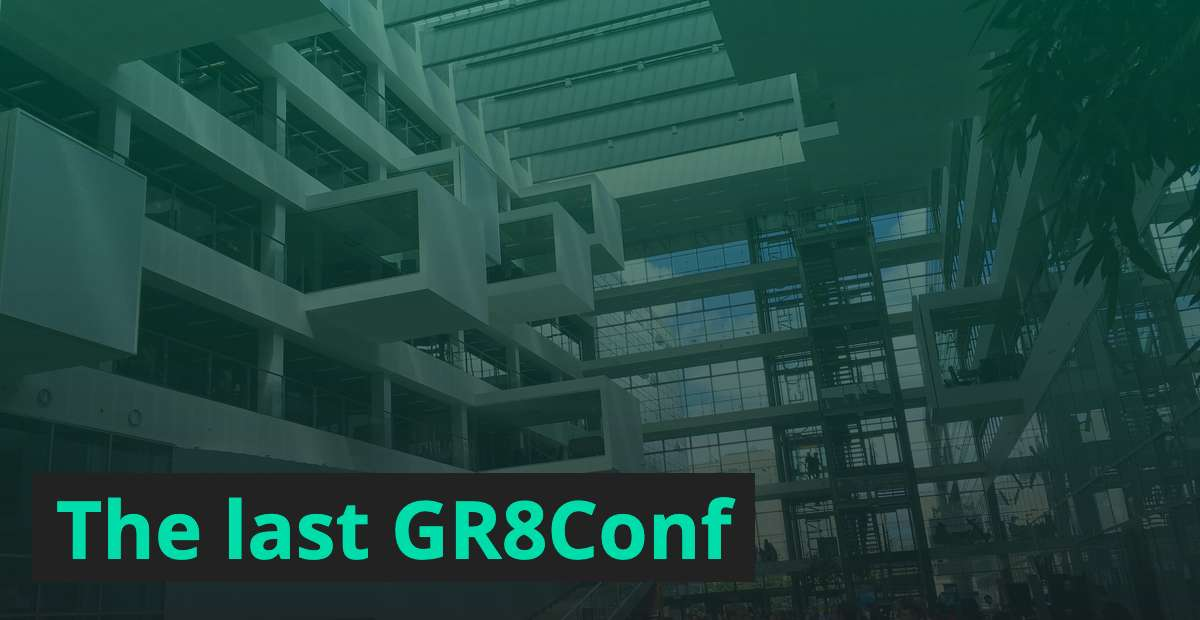
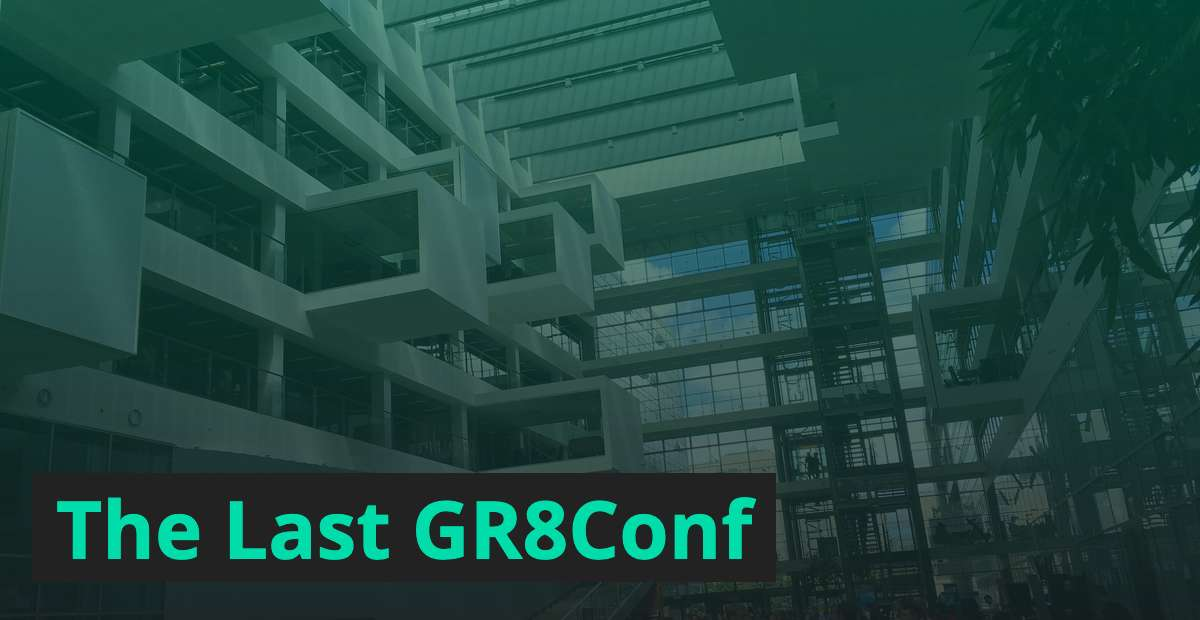
Add article about GR8Conf

Changed region(s): [[0.185, 0.7661, 0.6475, 0.9194]]

diff --git a/src/blog/the-last-gr8conf/index.md b/src/blog/the-last-gr8conf/index.md
@@ -1,6 +1,6 @@
 ---
 id: the-last-gr8conf
-title: The last GR8Conf
+title: The Last GR8Conf
 tagline: In 2019 I attended my first GR8Conf without knowing that this would be the last.
 date: 2022-11-03
 image: /blog/the-last-gr8conf/gr8conf-it-uni-copenhagen-1.jpg
